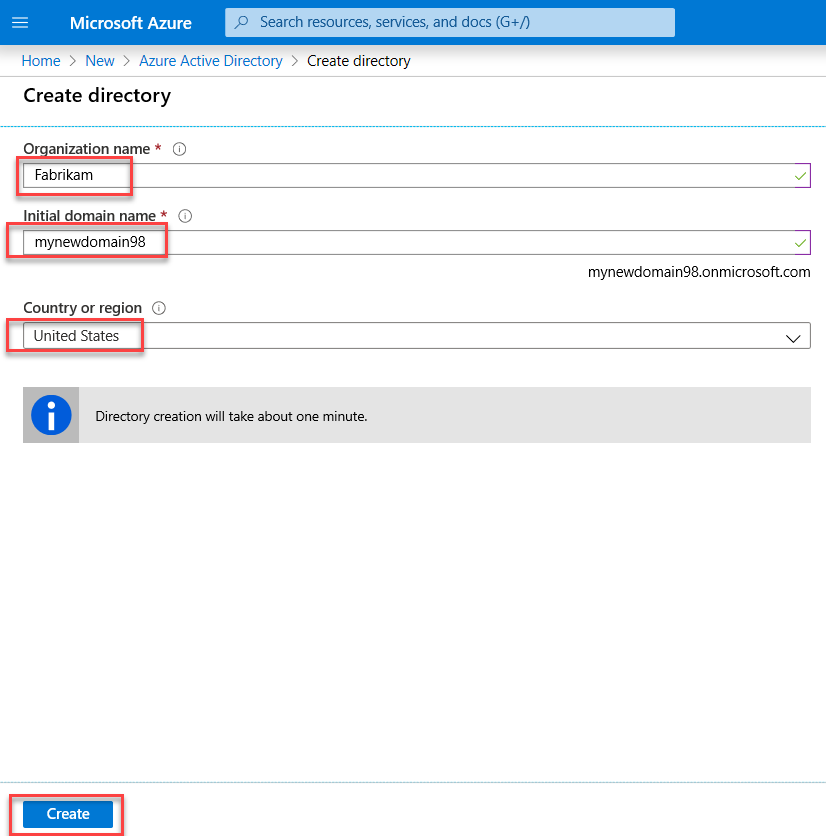
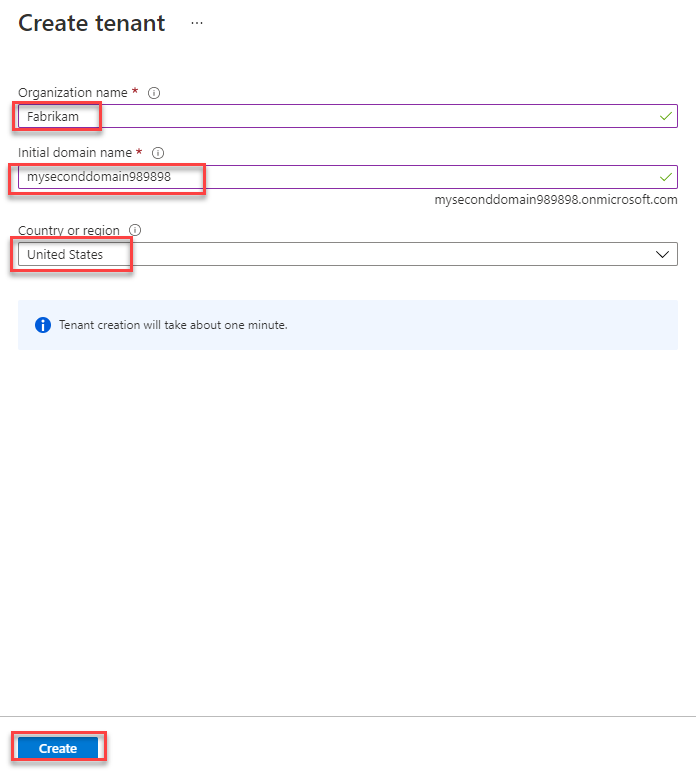
Updated Hybrid Identity MCW

Changed region(s): [[0.0, 0.0, 1.0, 0.5285], [0.0, 0.9326, 0.181, 1.0], [0.9353, 0.3731, 0.9957, 0.4352]]

diff --git a/Hands-on lab/HOL step-by step - Hybrid identity.md b/Hands-on lab/HOL step-by step - Hybrid identity.md
@@ -1486,13 +1486,13 @@ In this task, you will create another Azure Active Directory tenant representing
 
 2. When prompted, sign into the Azure subscription into which you deployed resources in the Before Hands-On Lab exercises (the **Default Directory**).
 
-3. On the lab computer, in the Azure portal, select **+ Create a resource**.
+3. On the lab computer, in the Azure portal, expand the left navigation and select **+ Create a resource**.
 
 4. On the **New** blade, in the **Search the Marketplace** text box, type **Azure Active Directory** and, in the list of results, select **Azure Active Directory**.
 
-5. On the **Azure Active Directory** blade, select **Create a tenant**.
+5. On the **Azure Active Directory** blade, select **Create**.
 
-6. On the **Create directory** blade, specify the following settings and select **Create**:
+6. On the **Create tenant** blade, specify the following settings and select **Create**:
 
     -   Organization name: **Fabrikam**
 
@@ -1500,7 +1500,7 @@ In this task, you will create another Azure Active Directory tenant representing
 
     -   Country or region: **United States**
 
-    ![Create directory configuration](images/Hands-onlabstep-bystep-HybridIdentityImages/media/CreateDirectoryConfiguration.png "Create directory configuration")
+    ![Create tenant configuration](images/Hands-onlabstep-bystep-HybridIdentityImages/media/CreateDirectoryConfiguration.png "Create tenant configuration form")
 
 7. In the Azure portal, navigate to the blade of the newly created Azure Active Directory tenant. It may take a few minutes for the **Fabrikam** directory to show up under **Directory + Subscription**. 
 
@@ -1545,23 +1545,25 @@ In this task, you will configure Azure AD user accounts in the newly created Azu
 
 3. On the **Users - All users** blade, select the entry representing your user account.
 
-4. On the **Profile** blade of your user account, in the **Settings** section, select the **edit** link.
+4. On the **Profile** blade of your user account, in the **Settings** section, select **Edit**.
 
     ![Edit Settings](images/Hands-onlabstep-bystep-HybridIdentityImages/media/EditProfileSettings.png "Editing Settings")
 
 5. In the **Settings** section, in the **Usage location** drop-down list, select the **United States** entry and select **Save**.
 
-    ![Usage location dropdown](images/Hands-onlabstep-bystep-HybridIdentityImages/media/UsageLocationDropdown.png "Usage location dropdown")
+    ![Usage location dropdown](images/Hands-onlabstep-bystep-HybridIdentityImages/media/UsageLocationDropdown.png "Usage location dropdown selection")
 
 6. On the **Profile** blade of your user account, select **Licenses** under **Manage** on the left.
 
 7. On the **Licenses** blade, select **+ Assignments**.
 
-8. On the **Update license assignments** blade, enable the **Enterprise Mobility + Security E5** checkbox, ensure that all the corresponding license options are enabled, and select **Save**.
+8. On the **Update license assignments** blade, check the **Enterprise Mobility + Security E5** box, ensure that all the corresponding license options are enabled, and select **Save**.
 
-9.  On the **Users - All users** blade, select **+ New user**.
+9. On the **Users - All users** blade, select **+ New user**.
 
 10. On the **New user** blade, ensure that the **Create user** option is selected, specify the following settings, and select **Create**:
+
+    > **Note**: Copy the **User name** and **Password** values into Notepad. You will need them later in this lab.
 
     - User name: **jane.doe\@*your Azure AD tenant domain name*** where ***your Azure AD tenant domain name*** is the domain name you specified when creating the Fabrikam Azure AD tenant in the previous task.
 
@@ -1586,10 +1588,9 @@ In this task, you will configure Azure AD user accounts in the newly created Azu
     - Job title: leave blank
     
     - Department: leave blank
+    
 
-    > **Note**: Copy the **User name** and **Password** values into Notepad. You will need them later in this lab.
-
-    ![New user blade](images/Hands-onlabstep-bystep-HybridIdentityImages/media/CreateNewUser.png "New user blade")
+    ![New user blade](images/Hands-onlabstep-bystep-HybridIdentityImages/media/CreateNewUser.png "New user blade with selected configuration")
 
 11. On the **Users - All users** blade, select the entry representing the newly created user account.
 
@@ -1597,8 +1598,7 @@ In this task, you will configure Azure AD user accounts in the newly created Azu
 
 13. On the **jane.doe - Licenses** blade, select **+ Assignments**.
 
-14. On the **Update license assignments** blade, enable the **Enterprise Mobility + Security E5** checkbox, ensure that all the corresponding license options are enabled, and select **Save**.
-
+14. On the **Update license assignments** blade, check the **Enterprise Mobility + Security E5** box, ensure that all the corresponding license options are enabled, and select **Save**.
 
 ### Task 6: Create and configure Azure AD guest user and group accounts
 
@@ -1614,7 +1614,7 @@ In this task, you will create and configure Azure AD guest accounts in the Conto
 
     -  Name: **fabrikam-jane.doe**
 
-    -  Email address: jane.doe@mynewdomain98.onmicrosoft.com
+    -  Email address: **The email address of the jane.doe user you created earlier**
 
     -  First name: **Jane**
 
@@ -1634,7 +1634,7 @@ In this task, you will create and configure Azure AD guest accounts in the Conto
 
     -  Department : **Not set**
 
-    ![Invute new user](images/Hands-onlabstep-bystep-HybridIdentityImages/media/InviteNewUser.png "Invite new user")
+    ![Invite new user](images/Hands-onlabstep-bystep-HybridIdentityImages/media/InviteNewUser.png "Invite new user settings")
 
 5. In the Azure portal navigate back to the **Contoso - Overview** blade of the Contoso Azure AD tenant and select **Groups** under **Manage** on the left.
 
@@ -1658,7 +1658,7 @@ In this task, you will create and configure Azure AD guest accounts in the Conto
 
 8. On the **Groups - All groups** blade, select the newly created group and, on the **Fabrikam B2B users** group, copy its **Object id** value and paste it into Notepad. You will need it later in this exercise.
 
-9.  Switch to the lab computer, start a web browser using in private/incognito mode and browse to the Azure portal.
+9. Switch to the lab computer, start a web browser using in private/incognito mode and browse to the Azure portal.
 
 10. When prompted, sign in by using the credentials of the **jane.doe** Fabrikam Azure AD user account.
 
@@ -1668,8 +1668,7 @@ In this task, you will create and configure Azure AD guest accounts in the Conto
   
     > **Note**: If you receive the message **We've seen that password too many times before. Choose something harder to guess**, you'll need to modify the password until it is unique enough to be accepted.
 
-13. In the Azure portal, sign out from the Contoso Azure AD tenant and close the window of the web browser using in private/incognito mode.
-
+13. In the Azure portal, sign out from the Contoso Azure AD tenant and close the window of the web browser in private/incognito mode.
 
 ### Task 7: Configure an Azure AD Application Proxy application for B2B access
 
@@ -1683,7 +1682,7 @@ In this task, you will configure an Azure AD Application Proxy application for B
 
 4. On the **APP1 Default Web Site - Overview** blade, select **Users and groups** under **Manage** on the left.
 
-5. On the **APP1 Default Web Site - Users and groups** blade, select **+ Add user**.
+5. On the **APP1 Default Web Site - Users and groups** blade, select **+ Add user/group**.
 
 6. On the **Add Assignment** blade, specify the following settings and select **Assign**:
 
@@ -1713,19 +1712,19 @@ In this task, you will configure an Azure AD Application Proxy application for B
 
 13. On the **Sync B2B users - API permissions** blade, in the **Configured permissions** section, select **+ Add a permission**.
 
-14. On the **Request API permission** blade, switch to the **APIs my organization uses** tab, in the search text box, type **Windows Azure Active Directory**, in the list of results, select **Windows Azure Active Directory**, and then select **Application permissions**.
+14. On the **Request API permission** blade that appears on the right, switch to the **APIs my organization uses** tab, in the search text box, type **Windows Azure Active Directory**, in the list of results, select **Windows Azure Active Directory**, and then select **Application permissions**.
 
-    ![Request API permissions](images/Hands-onlabstep-bystep-HybridIdentityImages/media/RequestAPIPermissions.png "Request API permissions")
+    ![Request API permissions](images/Hands-onlabstep-bystep-HybridIdentityImages/media/RequestAPIPermissions.png "Request API permissions blade")
 
-15. On the **Request API permission** blade, in the **Select permissions** section, expand the **Directory** subsection, enable the **Directory.Read.All** checkbox, and select **Add permission**.
+15. On the **Request API permission** blade, in the **Select permissions** section, expand the **Directory** subsection, check the **Directory.Read.All** box, and select **Add permissions**.
 
-    ![In the Azure portal, the API permission settings are displayed.](images/Hands-onlabstep-bystep-HybridIdentityImages/media/SyncB2BUsers_RequestAPIpermissions.png "API Settings")
+    ![In the Azure portal, the API permission settings are displayed.](images/Hands-onlabstep-bystep-HybridIdentityImages/media/SyncB2BUsers_RequestAPIpermissions.png "API permission request settings")
 
 16. Back on the **Sync B2B users - API permissions** blade, in the **Configured permissions** section, select **Grant admin consent for Contoso**. Select **Yes** when prompted.
 
 17. If prompted, sign in with the credentials of the **john.doe** Contoso Azure AD user account and, on the **Permissions requested Accept for your organization** page, select **Accept**.
 
-18. Review the status of the permissions listed in the **Configured permissions** section on the **Sync B2B users - API permissions** blade and ensure that they it is listed as **Granted for Contoso**.
+18. Review the status of the permissions listed in the **Configured permissions** section on the **Sync B2B users - API permissions** blade and ensure that they arelisted as **Granted for Contoso**.
 
     ![Permissions granted for Contoso](images/Hands-onlabstep-bystep-HybridIdentityImages/media/GrantedForContoso.png "Permissions granted for Contoso")
 
@@ -1749,7 +1748,7 @@ In this task, you will configure an Azure AD Application Proxy application for B
 
 25. Within the Remote Desktop session to **DC1**, switch to the **Active Directory Users and Computers** console. 
 
-26. In the **Active Directory Users and Computers** console, expand the **contoso.local** node, create an organizational unit named **Demo B2B Accounts** directly in the root of the domain with two child organizational units named **Enabled** and **Disabled**.
+26. In the **Active Directory Users and Computers** console, expand **contoso.local** on the left, create an organizational unit named **Demo B2B Accounts** directly in the root of the domain with two child organizational units named **Enabled** and **Disabled**.
 
     ![Create an organizational unit.](images/Hands-onlabstep-bystep-HybridIdentityImages/media/CreateOU.png "Create an organizational unit")
 
@@ -1761,11 +1760,15 @@ In this task, you will configure an Azure AD Application Proxy application for B
     Get-ADForest | Set-ADForest -UPNSuffixes @{Add="<domain_name>.onmicrosoft.com"}
     ```
 
-28. Within the Remote Desktop session to **DC1**, start Internet Explorer and browse to <https://www.microsoft.com/en-us/download/details.aspx?id=51495>.
+28. Within the Remote Desktop session to **DC1**, start Internet Explorer and browse to the following url.
 
-29. From the **Connectors for Microsoft Identity Manager 2016 SP1 and Forefront Identity Manager 2010 R2 SP1** page, download **1.1.953.0\Script and Readme to pull Azure AD B2B users on-prem_v1.0.3.zip** and extract its content.
+    ```
+    https://www.microsoft.com/en-us/download/details.aspx?id=51495
+    ```
 
-30. Within the Remote Desktop session to **DC1**, in the Windows PowerShell ISE window, open the newly extracted PowerShell script **AppProxy-GuestAccountCreation-v1.0.3.ps1** and modify its content by replacing the `TODO` placeholders following the instructions provided in the script:
+29. On the **Connectors for Microsoft Identity Manager 2016 SP1 and Forefront Identity Manager 2010 R2 SP1** page, download **Script and Readme to pull Azure AD B2B users on-prem_v1.0.3.zip** and extract its content.
+
+30. Within the Remote Desktop session to **DC1**, in the Windows PowerShell ISE window, open the newly extracted PowerShell script **AppProxy-GuestAccountCreation-v1.0.3.ps1** and modify its content by updating it to match the following:
 
     ```pwsh
     $B2BGroupSid = "TODO" #Fabrikam B2B users Azure AD group's ObjectID that you identified earlier in this exercise.
@@ -1775,7 +1778,7 @@ In this task, you will configure an Azure AD Application Proxy application for B
     # Requires Azure AD configuration - refer to documentation
     $appID = "TODO" #The value of Client ID parameter of the Sync B2B user application you identified earlier in this exercise
     $appSecret = "TODO" #The value of the secret of the Sync B2B user application you identified earlier in this exercise
-    $tenantdomain   = "TODO" #<domain_name>.onmicrosoft.com, where `<domain_name>` designates the name of the default domain name associated with the Contoso Azure AD tenant
+    $tenantdomain   = "TODO" #The name of the default domain name associated with the Contoso Azure AD tenant
     $tenantID = "TODO" #The value of Azure AD tenant ID parameter of the Sync B2B user application you identified earlier in this exercise
     ```
     > **Note**: For more information regarding the script and its implementation, refer to the **Readme - Script to pull Azure AD B2B users on-prem_v1.0.3.pdf** file, included in the **1.1.953.0\Script and Readme to pull Azure AD B2B users on-prem_v1.0.3.zip** file you downloaded earlier in this task.
@@ -1793,7 +1796,11 @@ In this task, you will configure an Azure AD Application Proxy application for B
 
 ### Task 8: Test an Azure AD Application Proxy application
 
-1. From the lab computer, start a browser in Private mode and browse to <https://myapps.microsoft.com>.
+1. On the lab computer, start a browser in Private mode and browse to the below url.
+
+    ```
+    https://myapps.microsoft.com
+    ```
 
 2. When prompted, sign in by using the **jane.doe** Fabrikam Azure AD user account. 
 
